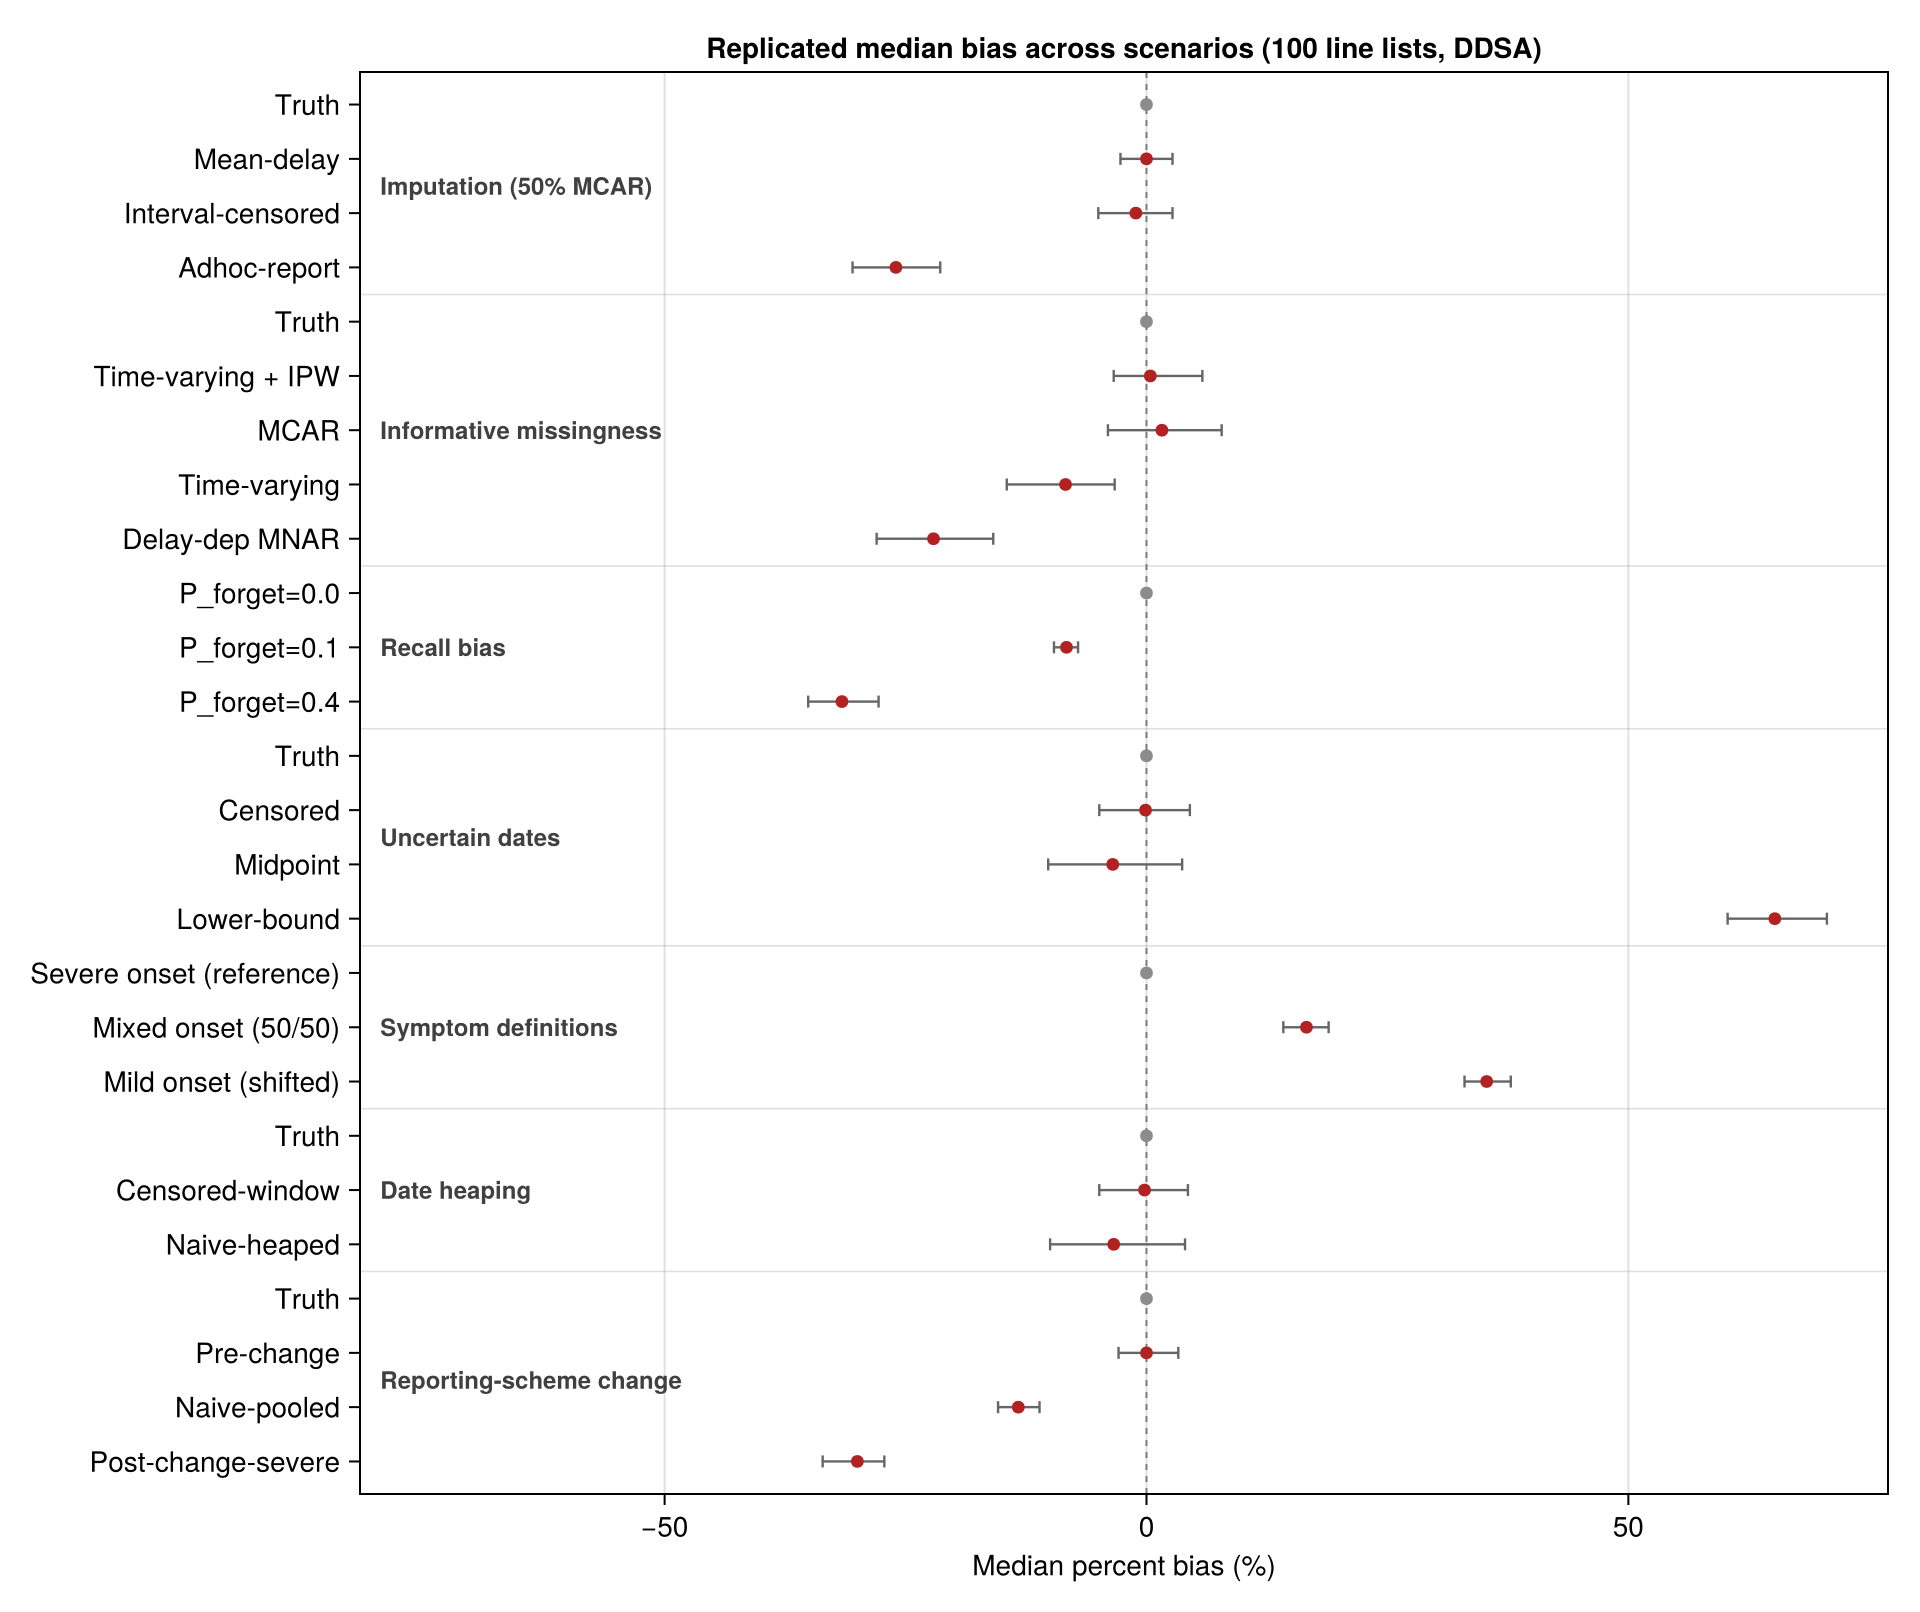
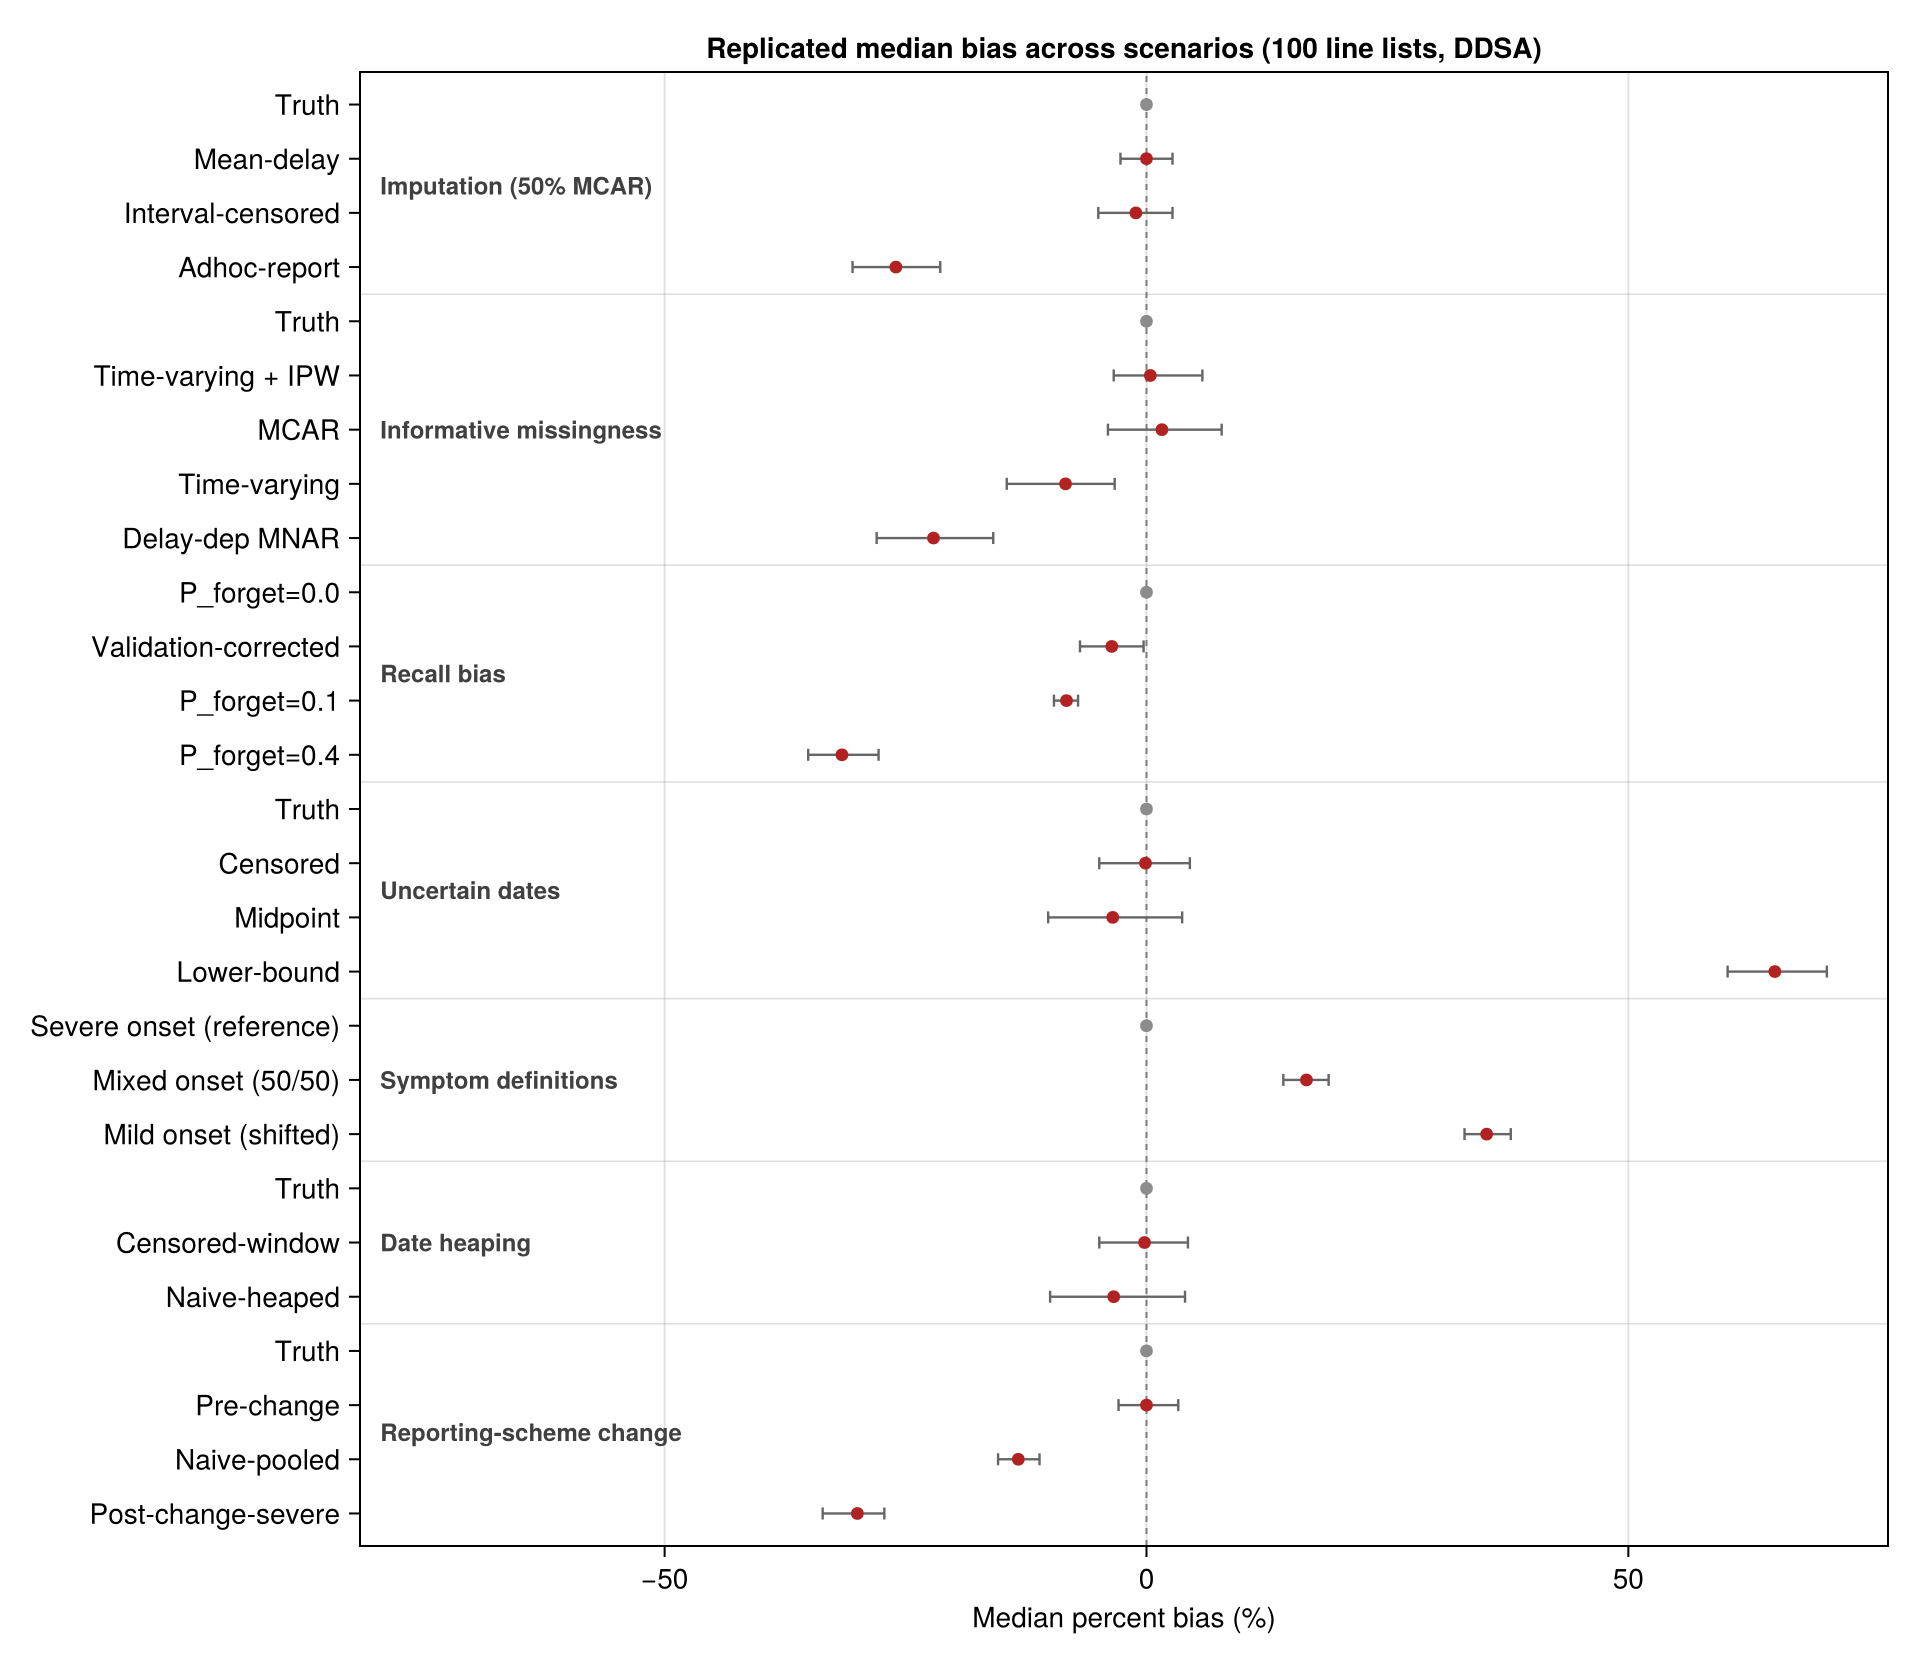
Added validation subsample correction to summary table and plot

diff --git a/Julia/issue_recall_bias/issue_recall_bias.md b/Julia/issue_recall_bias/issue_recall_bias.md
@@ -300,21 +300,24 @@ column. We demonstrate this at `p_forget = 0.4`, where the bias is
 largest, using a validation subsample of cases whose true onset is
 known.
 
-The validation subsample is a set of cases for which a gold-standard
+The validation subsample is a set of cases for which a record-confirmed
 onset has been recovered from clinical records alongside the remembered
-onset. On this subsample the recall shift is observed directly, and its
-distribution is used to impute the shift for the remaining cases. The
-imputation is repeated so the spread of plausible shifts is carried
-through rather than collapsed onto a single guess. We tried to sharpen
-the imputation by predicting each shift from the observed recalled
-onset-to-report gap, but that gap carries almost no per-case
-information, because the gap and the shift are confounded, so the
-correction reduces to imputing from the shift distribution learned on
-the subsample.
+onset. This assumes the clinical record reproduces the true onset
+exactly; real records carry their own transcription and recall error, so
+the correction demonstrated here is a best-case bound rather than a
+guaranteed recovery. On this subsample the recall shift is observed
+directly, and its distribution is used to impute the shift for the
+remaining cases. The imputation is repeated so the spread of plausible
+shifts is carried through rather than collapsed onto a single guess. We
+tried to sharpen the imputation by predicting each shift from the
+observed recalled onset-to-report gap, but that gap carries almost no
+per-case information, because the gap and the shift are confounded, so
+the correction reduces to imputing from the shift distribution learned
+on the subsample.
 
 ``` julia
 const PF_FIX = 0.4
-const VAL_FRAC = 0.30      # share of cases with a gold-standard, record-based onset
+const VAL_FRAC = 0.30      # share of cases with a record-confirmed onset (assumed exact here)
 const N_IMP = 15           # multiple-imputation draws for the validation correction
 const OUT_PATH_FIX = joinpath(FIG_DIR, "issue_recall_bias_fix.png")
 
@@ -345,7 +348,7 @@ function pool_fits(fits)
 end
 
 # Validation-informed correction: learn the recall-shift distribution on the
-# gold-standard subsample and multiply-impute it for the remaining cases.
+# record-confirmed subsample and multiply-impute it for the remaining cases.
 rng_val = MersenneTwister(SEED + 777)
 val_mask = falses(nfix)
 val_mask[sample(rng_val, 1:nfix, round(Int, VAL_FRAC * nfix); replace = false)] .= true
@@ -405,19 +408,18 @@ estimate. The recall shift cannot be measured, and any adjustment would
 rest on an assumed telescoping magnitude that the recalled data can
 neither confirm nor refute, so the result would reflect the assumption
 rather than correct the bias. For recall bias specifically, the
-dependable options are therefore obtaining gold-standard onsets for a
-subsample, as above, or capturing a less recall-prone onset marker at
-the point of data collection. Where neither is possible, the bias must
-be noted, together with its likely downward direction, but may not be
-removable.
+dependable options are therefore obtaining record-confirmed onsets for a
+subsample, as above (assuming those records are themselves accurate), or
+capturing a less recall-prone onset marker at the point of data
+collection. Where neither is possible, the bias must be noted, together
+with its likely downward direction, but may not be removable.
 
-<div id="refs" class="references csl-bib-body hanging-indent"
-entry-spacing="0">
+<div id="refs" class="references csl-bib-body hanging-indent">
 
 <div id="ref-CensoredDistributions_jl" class="csl-entry">
 
 Abbott, Sam, Damon Bayer, Sam Brand, Michael DeWitt, and Joseph
-Lemaitre. 2025. “CensoredDistributions.jl.”
+Lemaitre. 2025. *CensoredDistributions.jl*. Released.
 <https://doi.org/10.5281/zenodo.18474652>.
 
 </div>